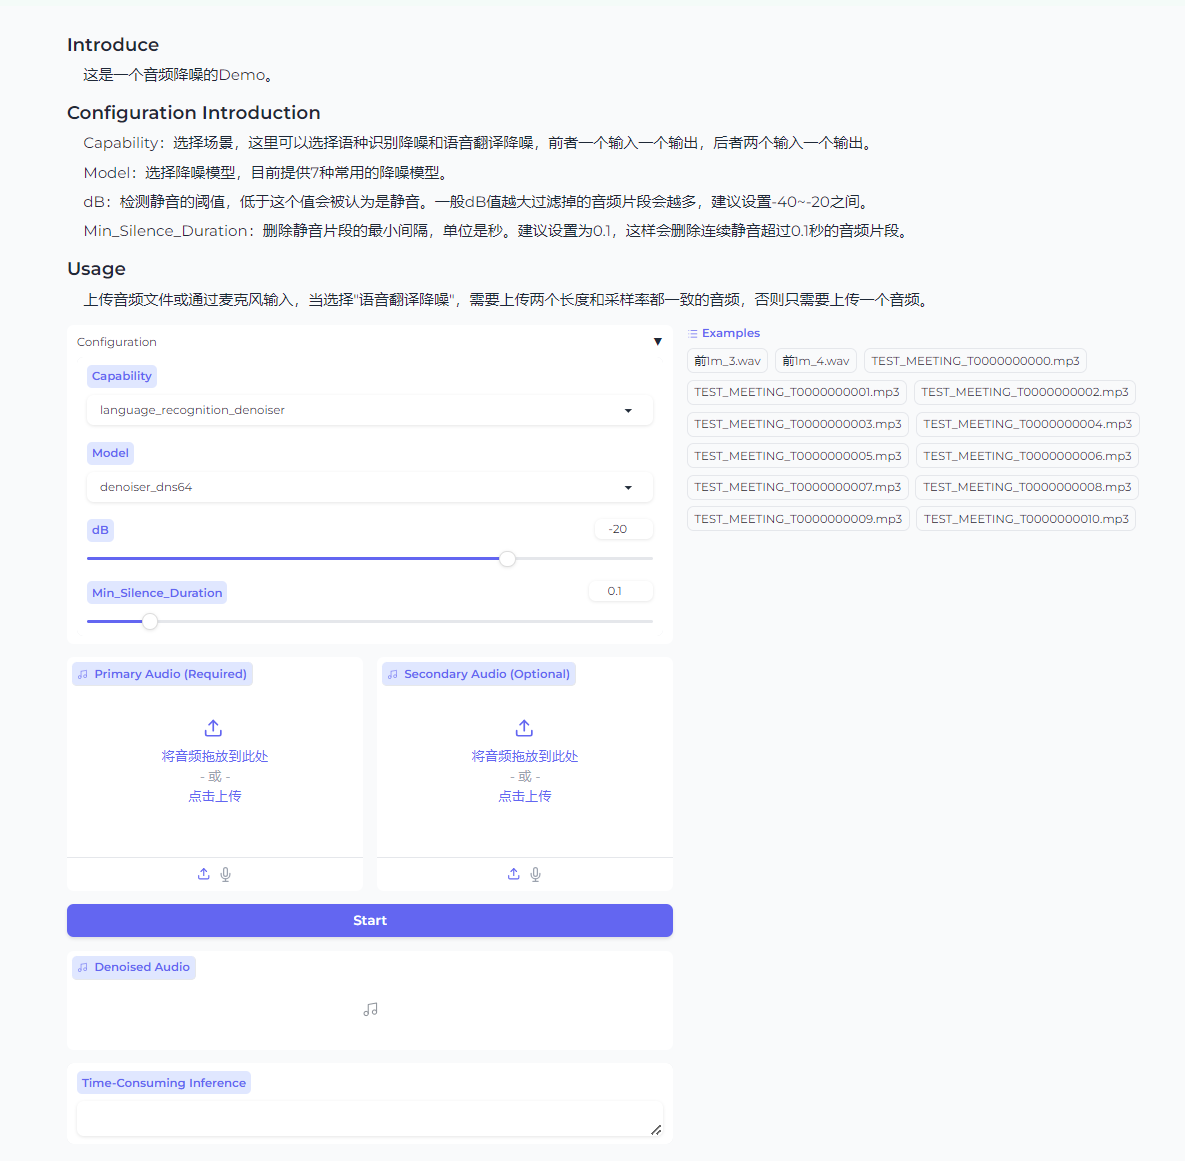
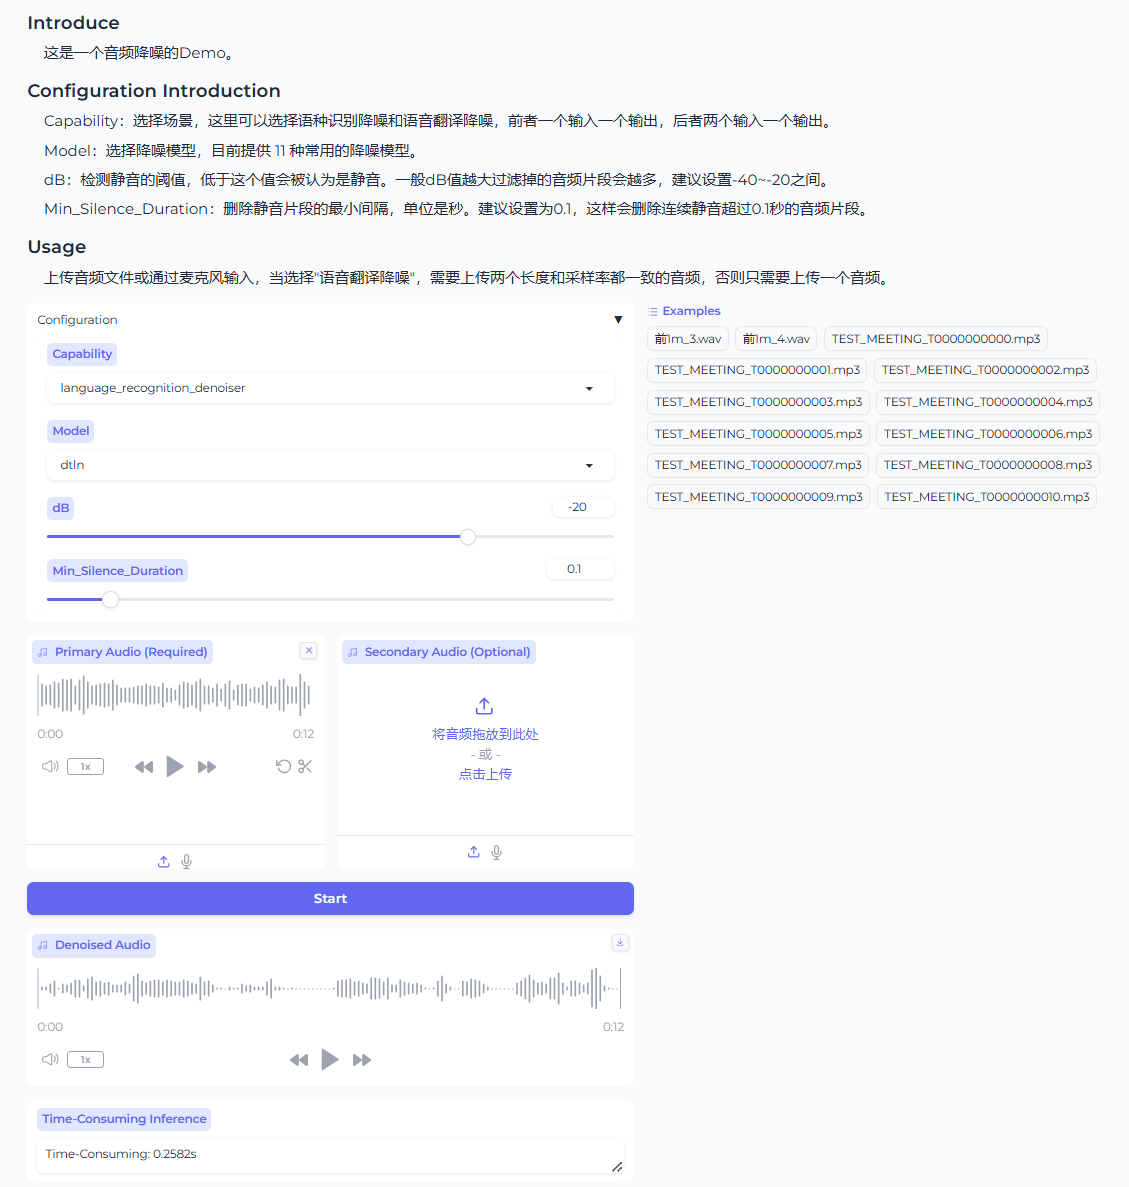
Add MDX MPSENET TDLN Model

diff --git a/mdxnet_denoise.py b/mdxnet_denoise.py
@@ -1,0 +1,200 @@
+import torch 
+import librosa
+import numpy as np
+import onnxruntime as ort
+from tqdm import tqdm
+import time
+
+from utils import remove_silence_from_both
+
+class ConvTDFNet:
+    def __init__(self, target_name, L, dim_f, dim_t, n_fft, hop=1024):
+        super(ConvTDFNet, self).__init__()
+        self.dim_c = 4
+        self.dim_f = dim_f
+        self.dim_t = 2**dim_t
+        self.n_fft = n_fft
+        self.hop = hop
+        self.n_bins = self.n_fft // 2 + 1
+        self.chunk_size = hop * (self.dim_t - 1)
+        self.window = torch.hann_window(window_length=self.n_fft, periodic=True)
+        self.target_name = target_name
+        
+        out_c = self.dim_c * 4 if target_name == "*" else self.dim_c
+        
+        self.freq_pad = torch.zeros([1, out_c, self.n_bins - self.dim_f, self.dim_t])
+        self.n = L // 2
+
+    def stft(self, x):
+        x = x.reshape([-1, self.chunk_size])
+        x = torch.stft(
+            x,
+            n_fft=self.n_fft,
+            hop_length=self.hop,
+            window=self.window,
+            center=True,
+            return_complex=True,
+        )
+        x = torch.view_as_real(x)
+        x = x.permute([0, 3, 1, 2])
+        x = x.reshape([-1, 2, 2, self.n_bins, self.dim_t]).reshape(
+            [-1, self.dim_c, self.n_bins, self.dim_t]
+        )
+        return x[:, :, : self.dim_f]
+
+    # Inversed Short-time Fourier transform (STFT).
+    def istft(self, x, freq_pad=None):
+        freq_pad = (
+            self.freq_pad.repeat([x.shape[0], 1, 1, 1])
+            if freq_pad is None
+            else freq_pad
+        )
+        x = torch.cat([x, freq_pad], -2)
+        c = 4 * 2 if self.target_name == "*" else 2
+        x = x.reshape([-1, c, 2, self.n_bins, self.dim_t]).reshape(
+            [-1, 2, self.n_bins, self.dim_t]
+        )
+        x = x.permute([0, 2, 3, 1])
+        x = x.contiguous()
+        x = torch.view_as_complex(x)
+        x = torch.istft(
+            x, n_fft=self.n_fft, hop_length=self.hop, window=self.window, center=True
+        )
+        return x.reshape([-1, c, self.chunk_size])
+
+class Predictor:
+    def __init__(self, args):
+        self.args = args
+        self.model_ = ConvTDFNet(
+            target_name="vocals",
+            L=11,
+            dim_f=args["dim_f"], 
+            dim_t=args["dim_t"], 
+            n_fft=args["n_fft"]
+        )
+        
+        if torch.cuda.is_available():
+            self.model = ort.InferenceSession(args['model_path'], providers=['CUDAExecutionProvider'])
+        else:
+            self.model = ort.InferenceSession(args['model_path'], providers=['CPUExecutionProvider'])
+
+    def demix(self, mix):
+        samples = mix.shape[-1]
+        margin = self.args["margin"]
+        chunk_size = self.args["chunks"] * 44100
+        
+        assert not margin == 0, "margin cannot be zero!"
+        
+        if margin > chunk_size:
+            margin = chunk_size
+
+        segmented_mix = {}
+
+        if self.args["chunks"] == 0 or samples < chunk_size:
+            chunk_size = samples
+
+        counter = -1
+        for skip in range(0, samples, chunk_size):
+            counter += 1
+            s_margin = 0 if counter == 0 else margin
+            end = min(skip + chunk_size + margin, samples)
+            start = skip - s_margin
+            segmented_mix[skip] = mix[:, start:end].copy()
+            if end == samples:
+                break
+
+        sources = self.demix_base(segmented_mix, margin_size=margin)
+        return sources
+
+    def demix_base(self, mixes, margin_size):
+        chunked_sources = []
+        progress_bar = tqdm(total=len(mixes))
+        progress_bar.set_description("Processing")
+        
+        for mix in mixes:
+            cmix = mixes[mix]
+            sources = []
+            n_sample = cmix.shape[1]
+            model = self.model_
+            trim = model.n_fft // 2
+            gen_size = model.chunk_size - 2 * trim
+            pad = gen_size - n_sample % gen_size
+            mix_p = np.concatenate(
+                (np.zeros((2, trim)), cmix, np.zeros((2, pad)), np.zeros((2, trim))), 1
+            )
+            mix_waves = []
+            i = 0
+            while i < n_sample + pad:
+                waves = np.array(mix_p[:, i : i + model.chunk_size])
+                mix_waves.append(waves)
+                i += gen_size
+            
+            mix_waves = torch.tensor(np.array(mix_waves), dtype=torch.float32)
+            
+            with torch.no_grad():
+                _ort = self.model
+                spek = model.stft(mix_waves)
+                if self.args["denoise"]:
+                    spec_pred = (
+                        -_ort.run(None, {"input": -spek.cpu().numpy()})[0] * 0.5
+                        + _ort.run(None, {"input": spek.cpu().numpy()})[0] * 0.5
+                    )
+                    tar_waves = model.istft(torch.tensor(spec_pred))
+                else:
+                    tar_waves = model.istft(
+                        torch.tensor(_ort.run(None, {"input": spek.cpu().numpy() })[0])
+                    )
+                tar_signal = (
+                    tar_waves[:, :, trim:-trim]
+                    .transpose(0, 1)
+                    .reshape(2, -1)
+                    .numpy()[:, :-pad]
+                )
+
+                start = 0 if mix == 0 else margin_size
+                end = None if mix == list(mixes.keys())[::-1][0] else -margin_size
+                
+                if margin_size == 0:
+                    end = None
+                
+                sources.append(tar_signal[:, start:end])
+
+                progress_bar.update(1)
+
+            chunked_sources.append(sources)
+        _sources = np.concatenate(chunked_sources, axis=-1)
+        
+        progress_bar.close()
+        return _sources
+
+    def predict(self, file_path):
+      
+        mix, rate = librosa.load(file_path, mono=False, sr=44100)
+        
+        if mix.ndim == 1:
+            mix = np.asfortranarray([mix, mix])
+        
+        mix = mix.T
+        sources = self.demix(mix.T)
+        opt = sources[0].T
+        
+        return (mix - opt, opt, rate)
+
+
+dict_args = {'model_path': 'example_data/UVR-MDX-NET-Inst_HQ_1.onnx', 'denoise': True, 'margin': 44100, 'chunks': 15, 'n_fft': 6144, 'dim_t': 8, 'dim_f': 3072}
+predictor = Predictor(args=dict_args)
+
+def mdxnet_denoise(audio_input1, audio_input2, dB, min_silence_duration):
+    start = time.time()
+    denoised1, no_vocals1, sr1 = predictor.predict(audio_input1)
+    denoised1 = denoised1.mean(axis=1)
+    if audio_input2 is not None:
+        denoised2, no_vocals2, sr2 = predictor.predict(audio_input2)
+        denoised2 = denoised2.mean(axis=1)
+        denoised1 = remove_silence_from_both(denoised1, denoised2, sr1, threshold=dB, min_silence_duration=min_silence_duration)
+        return (sr2, denoised1), f"Time-Consuming: {round(time.time() - start, 4)}s"
+    else:
+        return (sr1, denoised1), f"Time-Consuming: {round(time.time() - start, 4)}s"
+
+
+

diff --git a/dtln_denoise.py b/dtln_denoise.py
@@ -1,0 +1,100 @@
+import soundfile as sf
+import numpy as np
+import tflite_runtime.interpreter as tflite
+import time
+
+from utils import remove_silence_from_both
+
+# the values are fixed, if you need other values, you have to retrain.
+# The sampling rate of 16k is also fix.
+block_len = 512
+block_shift = 128
+# load models
+interpreter_1 = tflite.Interpreter(model_path='example_data/model_1.tflite')
+interpreter_1.allocate_tensors()
+interpreter_2 = tflite.Interpreter(model_path='example_data/model_2.tflite')
+interpreter_2.allocate_tensors()
+
+# Get input and output tensors.
+input_details_1 = interpreter_1.get_input_details()
+output_details_1 = interpreter_1.get_output_details()
+
+input_details_2 = interpreter_2.get_input_details()
+output_details_2 = interpreter_2.get_output_details()
+# create states for the lstms
+
+
+
+def infer(audio_path):
+    states_1 = np.zeros(input_details_1[1]['shape']).astype('float32')
+    states_2 = np.zeros(input_details_2[1]['shape']).astype('float32')
+    # load audio file at 16k fs (please change)
+    audio,fs = sf.read(audio_path)
+    # check for sampling rate
+    if fs != 16000:
+        raise ValueError('This model only supports 16k sampling rate.')
+    # preallocate output audio
+    out_file = np.zeros((len(audio)))
+    # create buffer
+    in_buffer = np.zeros((block_len)).astype('float32')
+    out_buffer = np.zeros((block_len)).astype('float32')
+    # calculate number of blocks
+    num_blocks = (audio.shape[0] - (block_len-block_shift)) // block_shift
+    time_array = []      
+    # iterate over the number of blcoks  
+    for idx in range(num_blocks):
+        start_time = time.time()
+        # shift values and write to buffer
+        in_buffer[:-block_shift] = in_buffer[block_shift:]
+        in_buffer[-block_shift:] = audio[idx*block_shift:(idx*block_shift)+block_shift]
+        # calculate fft of input block
+        in_block_fft = np.fft.rfft(in_buffer)
+        in_mag = np.abs(in_block_fft)
+        in_phase = np.angle(in_block_fft)
+        # reshape magnitude to input dimensions
+        in_mag = np.reshape(in_mag, (1,1,-1)).astype('float32')
+        # set tensors to the first model
+        interpreter_1.set_tensor(input_details_1[1]['index'], states_1)
+        interpreter_1.set_tensor(input_details_1[0]['index'], in_mag)
+        # run calculation 
+        interpreter_1.invoke()
+        # get the output of the first block
+        out_mask = interpreter_1.get_tensor(output_details_1[0]['index']) 
+        states_1 = interpreter_1.get_tensor(output_details_1[1]['index'])   
+        # calculate the ifft
+        estimated_complex = in_mag * out_mask * np.exp(1j * in_phase)
+        estimated_block = np.fft.irfft(estimated_complex)
+        # reshape the time domain block
+        estimated_block = np.reshape(estimated_block, (1,1,-1)).astype('float32')
+        # set tensors to the second block
+        interpreter_2.set_tensor(input_details_2[1]['index'], states_2)
+        interpreter_2.set_tensor(input_details_2[0]['index'], estimated_block)
+        # run calculation
+        interpreter_2.invoke()
+        # get output tensors
+        out_block = interpreter_2.get_tensor(output_details_2[0]['index']) 
+        states_2 = interpreter_2.get_tensor(output_details_2[1]['index']) 
+        
+        
+        # shift values and write to buffer
+        out_buffer[:-block_shift] = out_buffer[block_shift:]
+        out_buffer[-block_shift:] = np.zeros((block_shift))
+        out_buffer  += np.squeeze(out_block)
+        # write block to output file
+        out_file[idx*block_shift:(idx*block_shift)+block_shift] = out_buffer[:block_shift]
+        time_array.append(time.time()-start_time)
+    return out_file.astype(np.float32), fs
+    
+    
+def dtln_denoise(audio_input1, audio_input2, dB, min_silence_duration):
+    start = time.time()
+    denoised1, sr1 = infer(audio_input1)
+    if audio_input2 is not None:
+        denoised2, sr2 = infer(audio_input2)
+        denoised1 = remove_silence_from_both(denoised1, denoised2, sr1, threshold=dB, min_silence_duration=min_silence_duration)
+        return (sr1, denoised1), f"Time-Consuming: {round(time.time() - start, 4)}s"
+    else:
+        return (sr1, denoised1), f"Time-Consuming: {round(time.time() - start, 4)}s"
+
+
+

diff --git a/main.py b/main.py
@@ -7,6 +7,9 @@ from resemble_enhance_denoise import resemble_enhance_denoise
 from frcrn_denoise import frcrn_denoise
 from mossformer2_denoise import mossformer2_denoise
 from deepfilternet_denoise import deepfilternet_denoise
+from mdxnet_denoise import mdxnet_denoise
+from mpsenet_denoise import mpsenet_denoise
+from dtln_denoise import dtln_denoise
 
 
 
@@ -16,7 +19,7 @@ html_content = """
     <p style="font-size: 18px;margin-left: 20px;">这是一个音频降噪的Demo。</p>
     <h2 style="font-size: 22px;margin-left: 0px;">Configuration Introduction</h2>
     <p style="font-size: 18px;margin-left: 20px;">Capability：选择场景，这里可以选择语种识别降噪和语音翻译降噪，前者一个输入一个输出，后者两个输入一个输出。</p>
-    <p style="font-size: 18px;margin-left: 20px;">Model：选择降噪模型，目前提供7种常用的降噪模型。</p>
+    <p style="font-size: 18px;margin-left: 20px;">Model：选择降噪模型，目前提供 11 种常用的降噪模型。</p>
     <p style="font-size: 18px;margin-left: 20px;">dB：检测静音的阈值，低于这个值会被认为是静音。一般dB值越大过滤掉的音频片段会越多，建议设置-40~-20之间。</p>
     <p style="font-size: 18px;margin-left: 20px;">Min_Silence_Duration：删除静音片段的最小间隔，单位是秒。建议设置为0.1，这样会删除连续静音超过0.1秒的音频片段。</p>
     <h2 style="font-size: 22px;margin-left: 0px;">Usage</h2>
@@ -57,6 +60,12 @@ def model_inference(audio_input1, audio_input2, capability_inputs, model_inputs,
         return rnnoiser_denoise(audio_input1, audio_input2, dB, min_silence_duration)
     elif model_inputs == "deepfilternet":
         return deepfilternet_denoise(audio_input1, audio_input2, dB, min_silence_duration)
+    elif model_inputs == "mdxnet":
+        return mdxnet_denoise(audio_input1, audio_input2, dB, min_silence_duration)
+    elif model_inputs == "mpsenet":
+        return mpsenet_denoise(audio_input1, audio_input2, dB, min_silence_duration)
+    elif model_inputs == "dtln":
+        return dtln_denoise(audio_input1, audio_input2, dB, min_silence_duration)
 
 def launch():
     with gr.Blocks(theme=gr.themes.Soft()) as demo:
@@ -65,7 +74,7 @@ def launch():
             with gr.Column():
                 with gr.Accordion("Configuration"):
                     capability_inputs = gr.Dropdown(choices=["language_recognition_denoiser", "speech_translation_denoiser"], value="language_recognition_denoiser", label="Capability")
-                    model_inputs = gr.Dropdown(choices=["denoiser_dns64", "denoiser_dns48", "noisereduce","resemble-enhance","frcrn-ali","mossformer2-ali","rnnoiser",'deepfilternet'], value="denoiser_dns64", label="Model")
+                    model_inputs = gr.Dropdown(choices=["dtln", "mdxnet", "mpsenet", "denoiser_dns64", "denoiser_dns48", "noisereduce","resemble-enhance","frcrn-ali","mossformer2-ali","rnnoiser",'deepfilternet'], value="dtln", label="Model")
                     dB = gr.Slider(minimum=-80, maximum=0, step=1, label="dB", value=-20)
                     min_silence_duration = gr.Slider(minimum=0, maximum=1, step=0.01, label="Min_Silence_Duration", value=0.1)
                 with gr.Row():

diff --git a/mpsenet_denoise.py b/mpsenet_denoise.py
@@ -1,0 +1,26 @@
+import librosa
+import time
+from MPSENet import MPSENet
+
+from utils import remove_silence_from_both
+
+model = 'JacobLinCool/MP-SENet-DNS'  # JacobLinCool/MP-SENet-DNS   JacobLinCool/MP-SENet-VB
+device = "cuda"
+
+model = MPSENet.from_pretrained(model).to(device)
+
+
+def mpsenet_denoise(audio_input1, audio_input2, dB, min_silence_duration):
+    start = time.time()
+    wav1, sr1 = librosa.load(audio_input1, sr=model.sampling_rate)
+    denoised1, sr1, notation1 = model(wav1)
+    if audio_input2 is not None:
+        wav2, sr2 = librosa.load(audio_input2, sr=model.sampling_rate)
+        denoised2, sr2, notation2 = model(wav2)
+        denoised1 = remove_silence_from_both(denoised1, denoised2, sr1, threshold=dB, min_silence_duration=min_silence_duration)
+        return (sr2, denoised1), f"Time-Consuming: {round(time.time() - start, 4)}s"
+    else:
+        return (sr1, denoised1), f"Time-Consuming: {round(time.time() - start, 4)}s"
+
+
+
